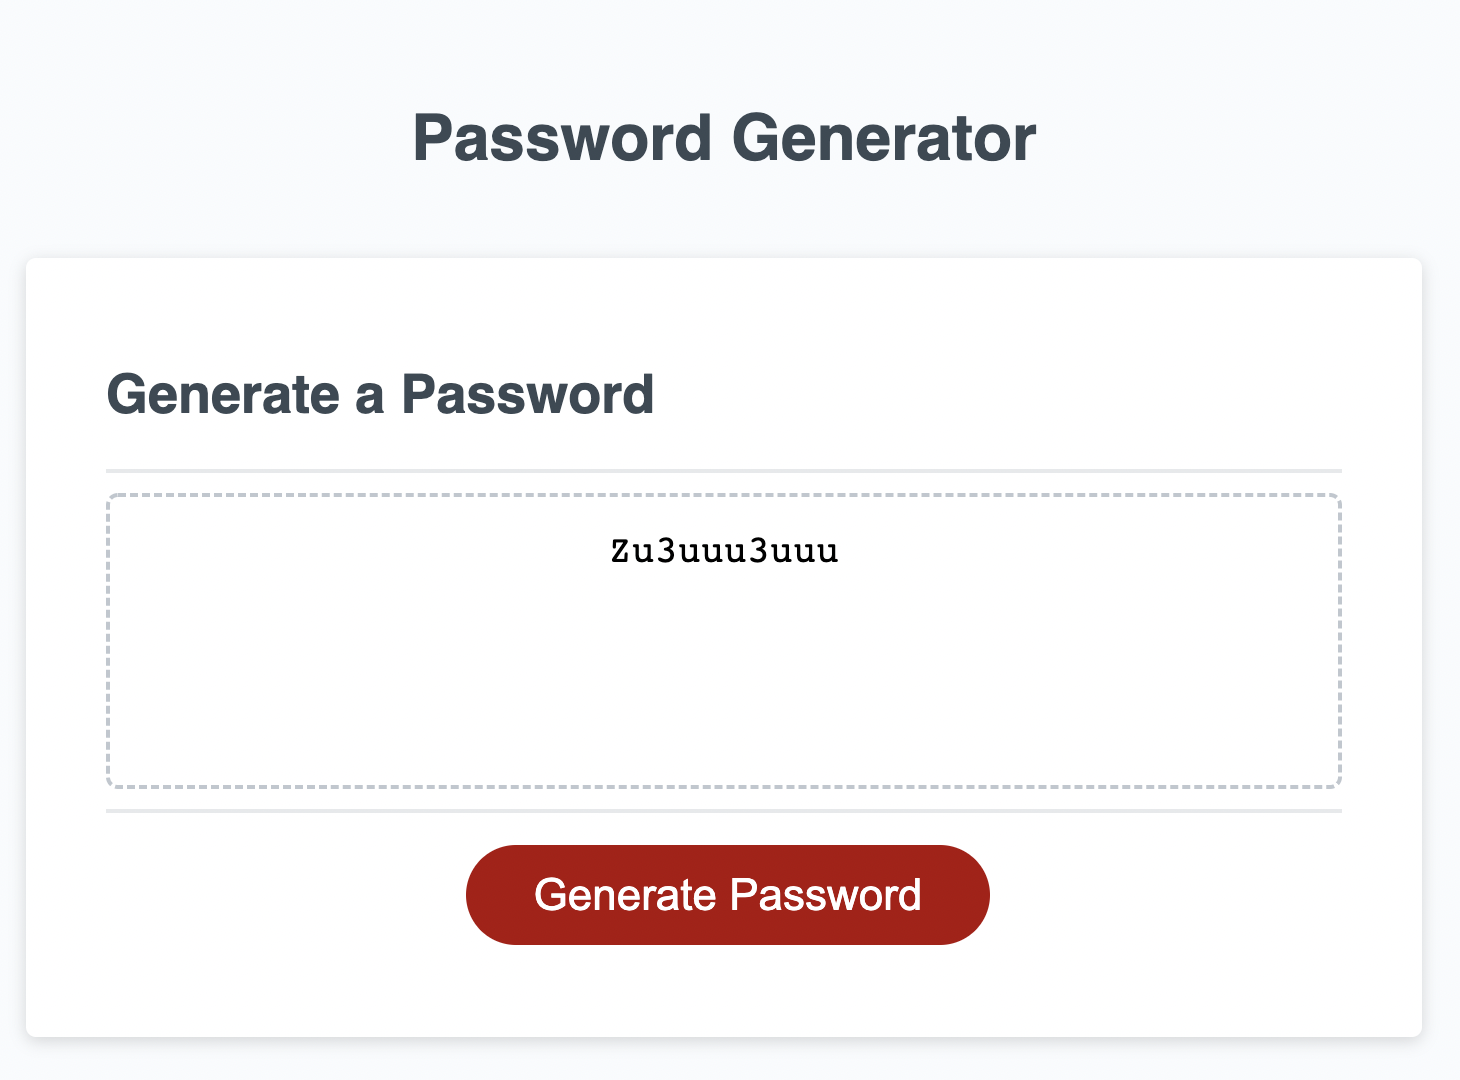
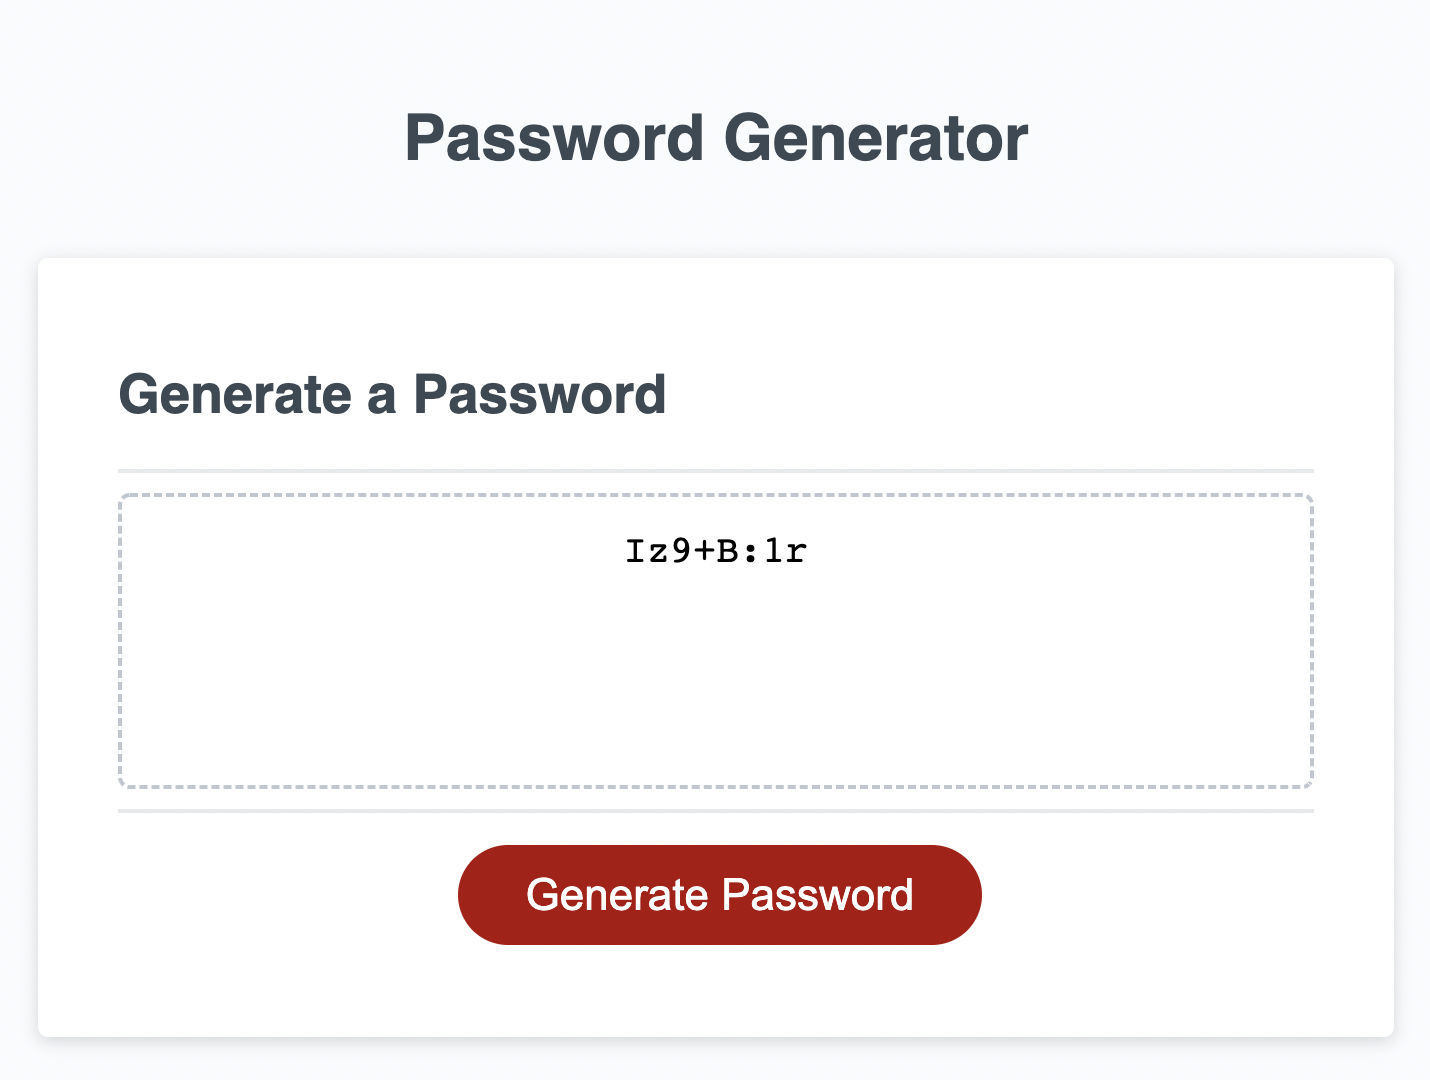
commented for loops and replaced end screenshot in README.md

diff --git a/Develop/script.js b/Develop/script.js
@@ -166,19 +166,21 @@ function generatePassword() {
     charBank = charBank.concat(specChar);
   }
 
-  // for loop
+  // "for loop" - i starts at 0. If the condition (i < desLength) is true, run the code block. Add 1 to the current value of i and return to the condition.
+  // Repeats the function of adding one random item from charBank to finalPwd until you reach the desLength the user selected.
   for (i = 0; i < desLength; i++) {
-    // math.Random() to generate array items for password?
-    finalPwd.push(charSample[Math.floor(Math.random() * charSample.length)]);
+    finalPwd.push(charBank[Math.floor(Math.random() * charBank.length)]);
     console.log("Password: " + finalPwd);
-    // copy item to finalPwd array
   }
 
+  // "for loop" - if j is less than the length of the sampleChar array, run the code block. Add 1 to j and repeat.
+  // Ensures that the final pwd returned to the user uses at least one of each character type by replacing the first item(s) in finalPwd with sampleChar.
   for (var j = 0; j < charSample.length; j++) {
     // Copy the item in index location j from charSample into finalPwd in index location j.
     finalPwd[j] = charSample[j];
     console.log(finalPwd);
   }
 
+  // Join all of the items of the finalPwd array into a string and return it back to the parent function, writePassword().
   return finalPwd.join("");
 }
